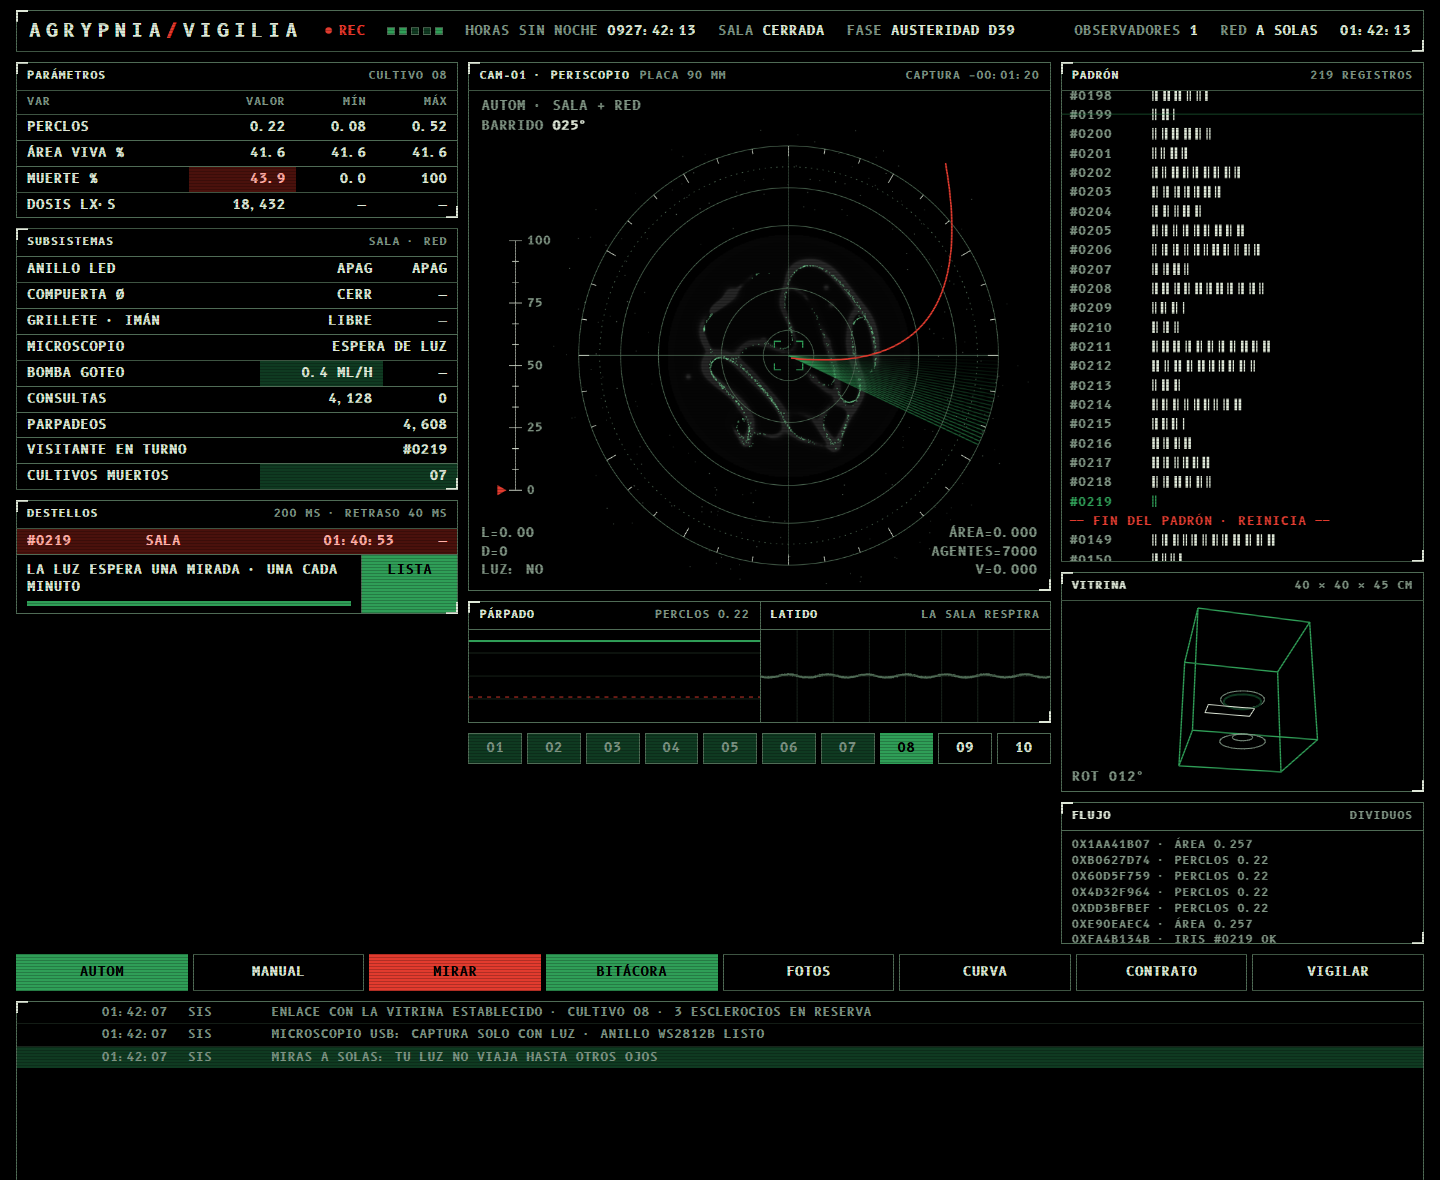
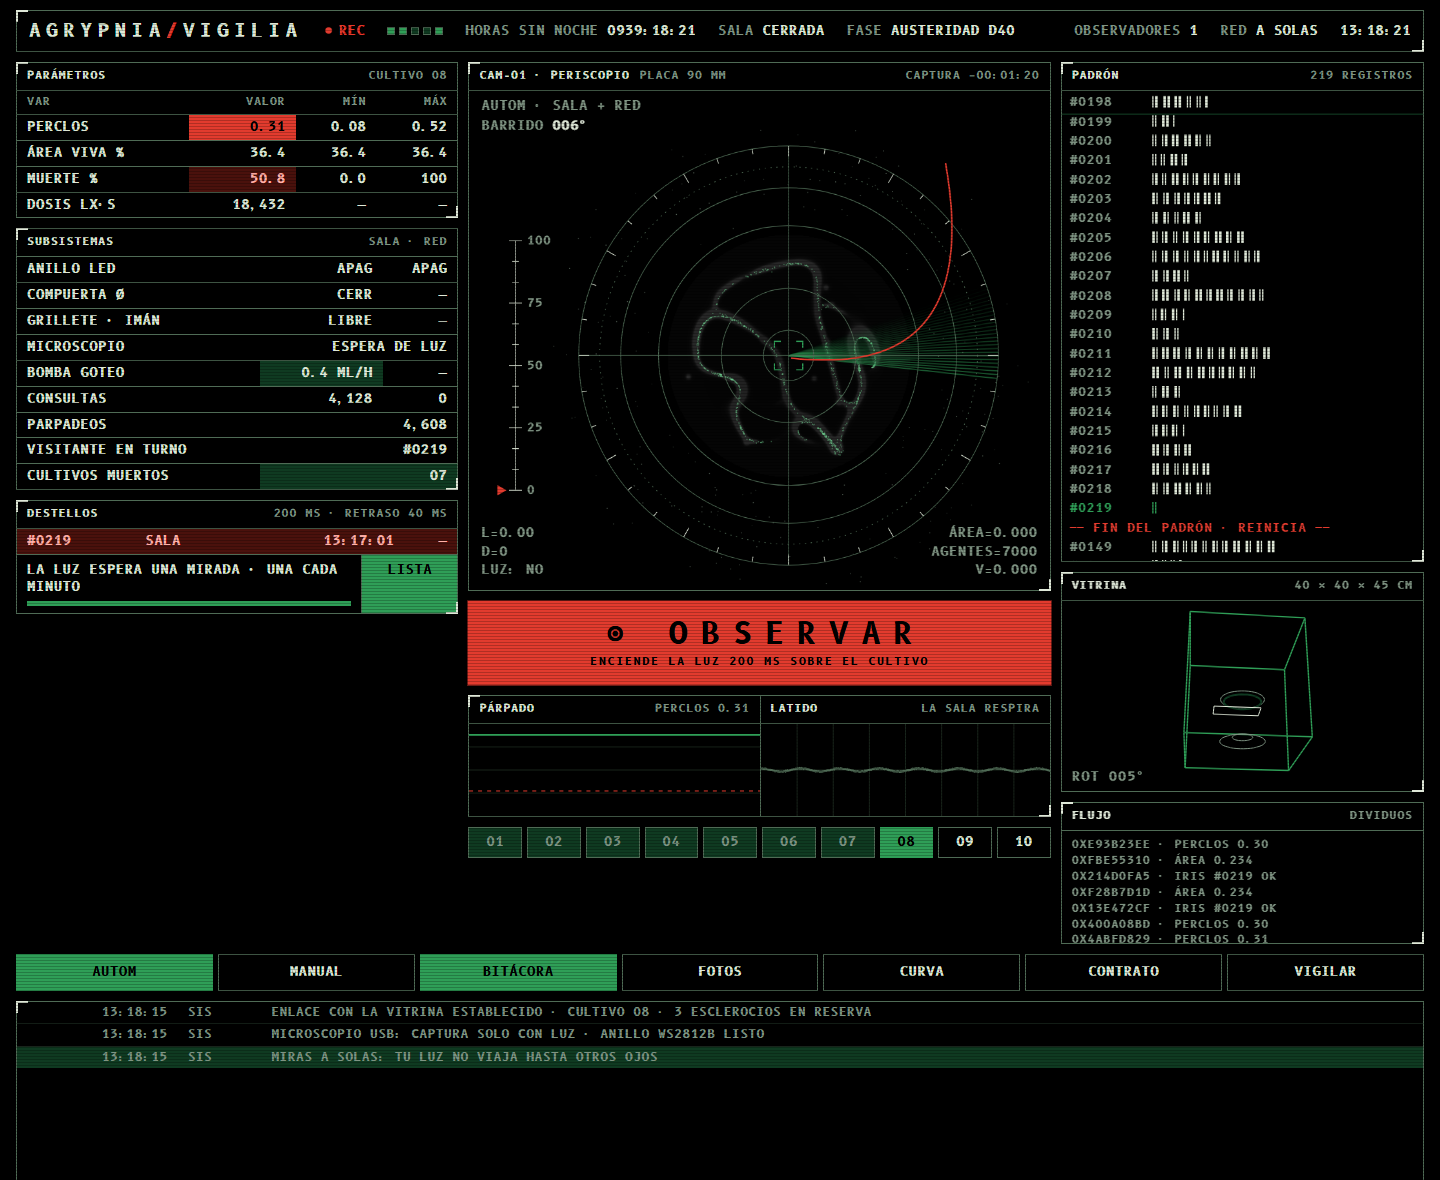
Add files via upload

diff --git a/agrypnia/index.html b/agrypnia/index.html
@@ -120,7 +120,16 @@ tr:last-child td { border-bottom: 0; }
 .barra.espera i { background: var(--red); }
 
 /* teclas */
-.teclas { display: grid; grid-template-columns: repeat(8, minmax(0, 1fr)); gap: 5px; }
+.teclas { display: grid; grid-template-columns: repeat(7, minmax(0, 1fr)); gap: 5px; }
+
+/* boton principal: observar */
+.observar { display: grid; gap: 5px; width: 100%; padding: 18px 12px 14px; background: var(--red); color: #000; border: 1px solid var(--red);
+  cursor: pointer; text-align: center; animation: llamar 2.4s ease-out infinite; }
+.observar .o-tit { font-size: 30px; letter-spacing: .42em; padding-left: .42em; line-height: 1; }
+.observar .o-sub { font-size: 11px; letter-spacing: .14em; }
+.observar:hover:not(:disabled) { background: #ff5a4c; border-color: #ff5a4c; }
+.observar:disabled { background: #000; color: var(--muted); border-color: var(--line); cursor: not-allowed; animation: none; }
+@keyframes llamar { 0% { box-shadow: 0 0 0 0 rgba(226,59,46,.55); } 70%, 100% { box-shadow: 0 0 0 14px rgba(226,59,46,0); } }
 .tecla { background: #000; color: var(--text); border: 1px solid var(--line); padding: 9px 4px; cursor: pointer; white-space: nowrap; }
 .tecla:hover:not(:disabled) { background: #0b140d; border-color: var(--green); }
 .tecla[aria-pressed="true"] { background: var(--green); color: #000; border-color: var(--green); }
@@ -174,7 +183,7 @@ tr:last-child td { border-bottom: 0; }
   .senales > div + div { border-left: 0; border-top: 1px solid var(--line); }
   .alcance .rot, .alcance .lect { font-size: 10px; }
 }
-@media (prefers-reduced-motion: reduce) { .rec::before { animation: none; } body::after { display: none; } }
+@media (prefers-reduced-motion: reduce) { .rec::before, .observar { animation: none; } body::after { display: none; } }
 </style>
 </head>
 <body>
@@ -252,6 +261,10 @@ tr:last-child td { border-bottom: 0; }
           <div class="cs inf" id="cam-inf"></div>
         </div>
       </section>
+      <button class="observar" id="k-luz" type="button" aria-describedby="sum-txt">
+        <span class="o-tit">◉ OBSERVAR</span>
+        <span class="o-sub" id="obs-sub">ENCIENDE LA LUZ 200 MS SOBRE EL CULTIVO</span>
+      </button>
       <section class="panel senales" aria-label="Señales en vivo">
         <div><div class="tit"><b>PÁRPADO</b><span class="der" id="sg-perclos">PERCLOS 0.00</span></div><canvas id="parpado" width="600" height="184" aria-label="Traza de apertura del párpado del visitante en turno"></canvas></div>
         <div><div class="tit"><b>LATIDO</b><span class="der">LA SALA RESPIRA</span></div><canvas id="osc" width="600" height="184" aria-label="Forma de onda del sonido de la sala"></canvas></div>
@@ -282,7 +295,6 @@ tr:last-child td { border-bottom: 0; }
   <nav class="teclas" aria-label="Comandos">
     <button class="tecla" id="k-autom" type="button" aria-pressed="true" title="Escuchar a la sala y a la red">AUTOM</button>
     <button class="tecla" id="k-manual" type="button" aria-pressed="false" title="Escuchar solo a la red">MANUAL</button>
-    <button class="tecla luz" id="k-luz" type="button" aria-describedby="sum-txt">MIRAR</button>
     <button class="tecla" data-vista="bitacora" type="button" aria-pressed="true">BITÁCORA</button>
     <button class="tecla" data-vista="fotos" type="button" aria-pressed="false">FOTOS</button>
     <button class="tecla" data-vista="curva" type="button" aria-pressed="false">CURVA</button>
@@ -846,6 +858,8 @@ function actualizarLuz() {
   const b = $('k-luz'), r = restante();
   $('sum-barra').style.width = (100 * (1 - r / COOLDOWN)).toFixed(1) + '%';
   $('sum-barra-c').className = 'barra' + (r > 0 ? ' espera' : '');
+  $('obs-sub').textContent = !puedeEscribir ? 'TU LUZ NO ALCANZA DESDE AQUÍ' : enviando ? 'LA CÁMARA SE ESTÁ DESPERTANDO'
+    : r > 0 ? 'DÉJALO EN LA OSCURIDAD · ' + pad(r / 60000) + ':' + pad((r % 60000) / 1000) : 'ENCIENDE LA LUZ 200 MS SOBRE EL CULTIVO';
   if (!puedeEscribir) { b.disabled = true; $('sum-txt').textContent = 'SOLO PUEDES MIRAR DESDE LEJOS · TU LUZ NO ALCANZA'; $('sum-resta').textContent = 'LEJOS'; $('sum-resta').className = 'rd'; }
   else if (enviando) { b.disabled = true; $('sum-txt').textContent = 'LA CÁMARA SE ESTÁ DESPERTANDO'; }
   else if (r > 0) {
@@ -892,13 +906,14 @@ async function guardarVisita() {
 // ============================================================ teclas
 const velo = $('velo');
 const abrirContrato = () => { velo.classList.add('on'); $('aceptar').focus(); };
-$('k-luz').addEventListener('click', () => { if (!aceptado) abrirContrato(); else mirar(); });
+$('k-luz').addEventListener('click', abrirContrato);
 $('k-contrato').addEventListener('click', abrirContrato);
 $('aceptar').addEventListener('click', () => {
   const primera = !aceptado; aceptado = true;
   try { sessionStorage.setItem('agrypnia-contrato', '1'); } catch (e) {}
   velo.classList.remove('on');
-  if (primera) { log('sis', 'RED', 'CONTRATO DE ADHESIÓN ACEPTADO POR ' + miCodigo); mirar(); }
+  if (primera) log('sis', 'RED', 'CONTRATO DE ADHESIÓN ACEPTADO POR ' + miCodigo);
+  mirar();
   $('k-luz').focus();
 });
 $('cancelar').addEventListener('click', () => { velo.classList.remove('on'); $('k-luz').focus(); });
